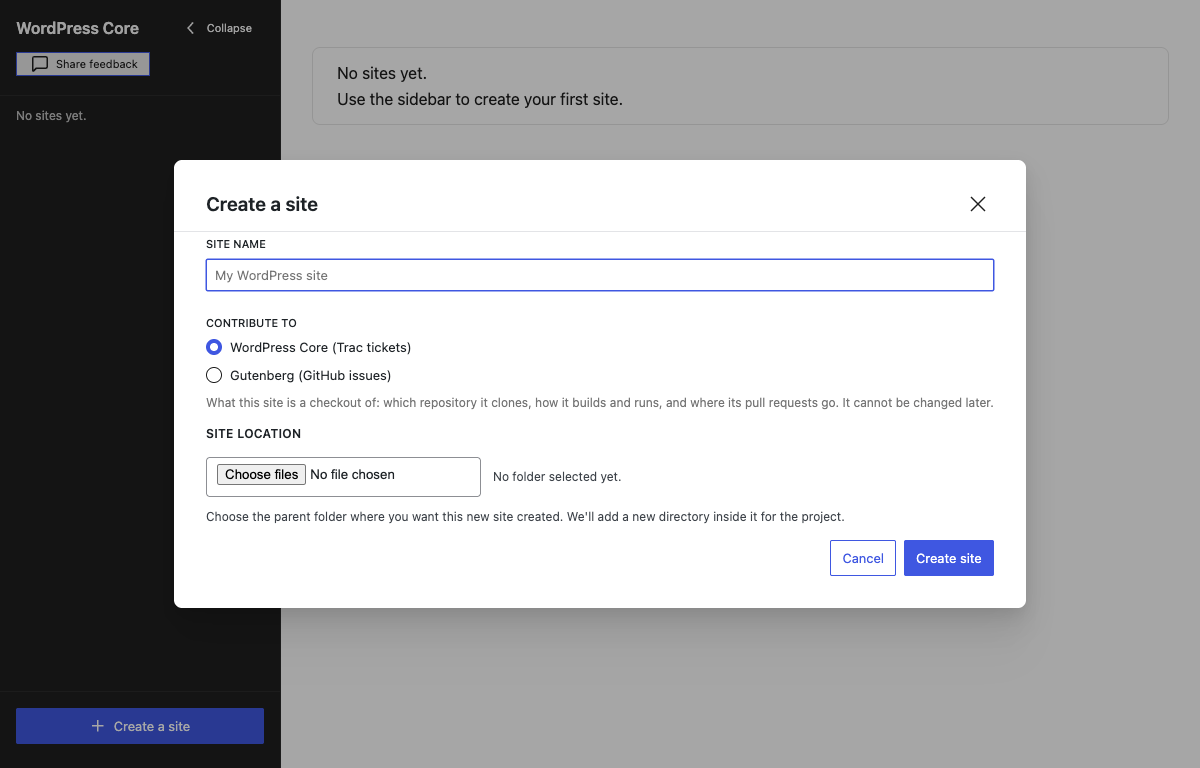
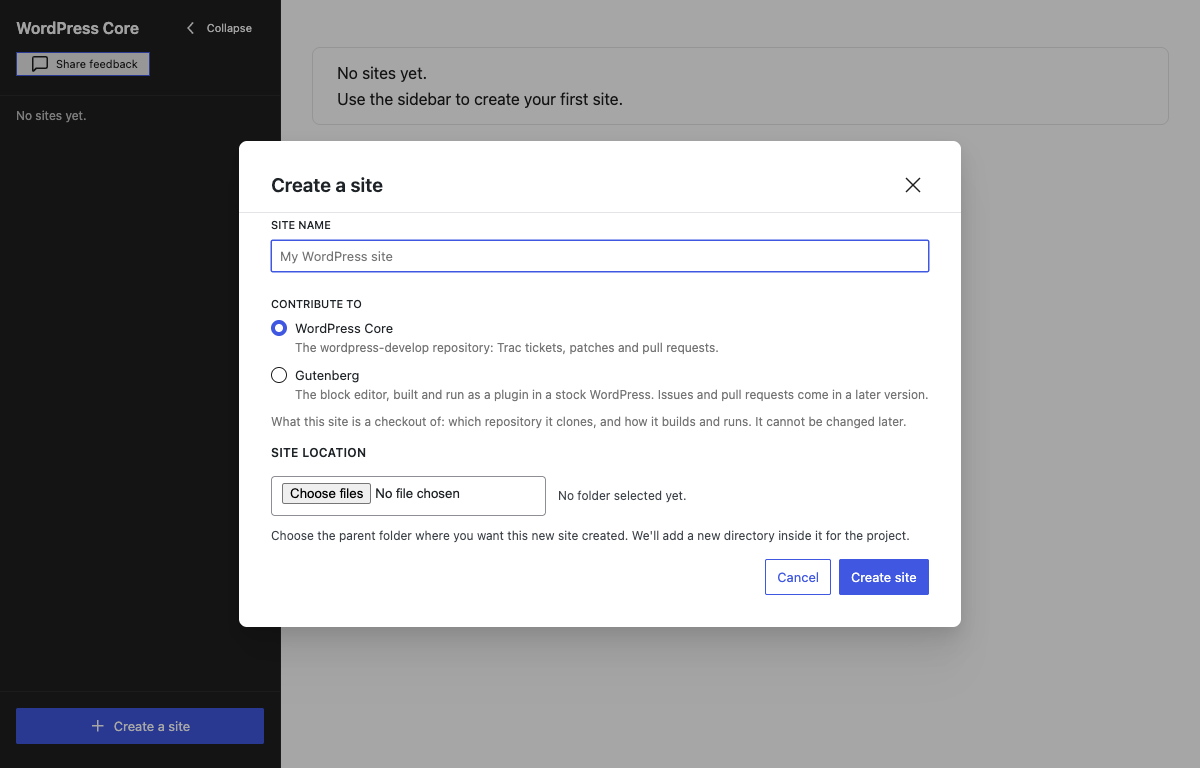
[Fix] Say only what a Gutenberg site can do, and refuse the pull request it cannot open yet (#251)
From the pre-PR review. The choice's help line and the docs promised "where its pull requests go", but the pull-request flow forks and targets wordpress-develop for every site; until it reads the type, `github:open-pr` refuses a site that is not Core with a sentence that points at the patch file, and the copy says only what is wired. Each choice carries its own line now (the registry's `description`, read nowhere before), attached to the radio rather than to the group. The docs no longer claim an empty name yields a default folder, which the dialog refuses; the pages that still described every site as wordpress-develop say the project's repository; the checklist's clone line does too. The legacy-site journey pins the two radios and the Core default at pull-request cost. The real-setup spec's comment on the mutated name field no longer implies the app rewrote it.

Changed region(s): [[0.1233, 0.1562, 0.8633, 0.8438]]

diff --git a/tests/e2e/real-setup/create-site.spec.js b/tests/e2e/real-setup/create-site.spec.js
@@ -2,17 +2,16 @@ const fs = require( 'node:fs' );
 const os = require( 'node:os' );
 const path = require( 'node:path' );
 const { finished } = require( 'node:stream/promises' );
-const { test, expect } = require( '../helpers/app.cjs' );
-
 const { execFileSync } = require( 'node:child_process' );
+const { test, expect } = require( '../helpers/app.cjs' );
 
 // One real setup per contribution target (#251). The steps are the same; what
 // differs is the choice in the dialog, what the status reports, and what the
 // served WordPress must show: Core serves its own build/, Gutenberg is a plugin
 // inside a stock WordPress.
 const TARGETS = [
-	{ choice: 'WordPress Core (Trac tickets)', projectType: 'core', servedAsPlugin: false },
-	{ choice: 'Gutenberg (GitHub issues)', projectType: 'gutenberg', servedAsPlugin: true },
+	{ choice: 'WordPress Core', projectType: 'core', servedAsPlugin: false },
+	{ choice: 'Gutenberg', projectType: 'gutenberg', servedAsPlugin: true },
 ];
 
 // Whether any process of the Gutenberg watcher tree (tsc --watch, wp-build
@@ -32,112 +31,115 @@ function watcherProcessesAlive( sitePath ) {
 }
 
 for ( const target of TARGETS ) {
-test( `a new ${ target.projectType } site downloads, installs, builds and serves WordPress`, async ( { session, request }, testInfo ) => {
-	test.skip( process.env.TOOLKIT_REAL_SETUP !== '1', 'Set TOOLKIT_REAL_SETUP=1 to allow a real network install.' );
-	const parent = session.track( fs.mkdtempSync( path.join( os.tmpdir(), 'wpct-real-setup-' ) ) );
-	const sitePath = path.join( parent, 'real-setup' );
-	const { app, page } = await session.start();
-	const logPath = testInfo.outputPath( 'app.log' );
-	fs.mkdirSync( path.dirname( logPath ), { recursive: true } );
-	const log = fs.createWriteStream( logPath );
-	const proc = app.process();
-	const onOutput = ( chunk ) => log.write( chunk );
-	proc.stdout.on( 'data', onOutput );
-	proc.stderr.on( 'data', onOutput );
+	test( `a new ${ target.projectType } site downloads, installs, builds and serves WordPress`, async ( { session, request }, testInfo ) => {
+		test.skip( process.env.TOOLKIT_REAL_SETUP !== '1', 'Set TOOLKIT_REAL_SETUP=1 to allow a real network install.' );
+		const parent = session.track( fs.mkdtempSync( path.join( os.tmpdir(), 'wpct-real-setup-' ) ) );
+		const sitePath = path.join( parent, 'real-setup' );
+		const { app, page } = await session.start();
+		const logPath = testInfo.outputPath( 'app.log' );
+		fs.mkdirSync( path.dirname( logPath ), { recursive: true } );
+		const log = fs.createWriteStream( logPath );
+		const proc = app.process();
+		const onOutput = ( chunk ) => log.write( chunk );
+		proc.stdout.on( 'data', onOutput );
+		proc.stderr.on( 'data', onOutput );
 
-	try {
-		await test.step( 'Create a site in an isolated temporary directory', async () => {
-			await session.answerFileDialog( [ parent ] );
-			await page.getByRole( 'button', { name: 'Create a site', exact: true } ).click();
-			const modal = page.getByRole( 'dialog', { name: 'Create a site' } );
-			const choice = modal.getByRole( 'radio', { name: target.choice, exact: true } );
-			await choice.click();
-			await expect( choice ).toBeChecked();
-			// Filled after the choice, and read back until it is right. In the
-			// first seconds of a freshly started app the value Playwright filled
-			// came back with letters added or dropped ("real-setupes",
-			// "real-setu"), and the site then landed in a folder this test was
-			// not watching. Not reproduced by hand or in a warmed-up app; a
-			// refill is what a person would do on seeing it.
-			const name = modal.getByLabel( 'Site name', { exact: true } );
-			await expect( async () => {
-				await name.fill( 'real-setup' );
-				await expect( name ).toHaveValue( 'real-setup', { timeout: 2_000 } );
-			} ).toPass( { timeout: 30_000 } );
-			await modal.getByLabel( 'Site location', { exact: true } ).press( 'Enter' );
-			await modal.getByRole( 'button', { name: 'Create site', exact: true } ).click();
-		} );
-
-		await test.step( 'Wait for the real clone, npm install and full build', async () => {
-			// INVARIANT: the app completes the automatic chain without retry clicks.
-			// WordPress mirrors the same success message in its live region.
-			await expect( page.getByText( 'This site is ready to work on', { exact: true } ).first() ).toBeVisible( {
-				timeout: 40 * 60_000,
+		try {
+			await test.step( 'Create a site in an isolated temporary directory', async () => {
+				await session.answerFileDialog( [ parent ] );
+				await page.getByRole( 'button', { name: 'Create a site', exact: true } ).click();
+				const modal = page.getByRole( 'dialog', { name: 'Create a site' } );
+				const choice = modal.getByRole( 'radio', { name: target.choice, exact: true } );
+				await choice.click();
+				await expect( choice ).toBeChecked();
+				// Filled after the choice, and read back until it is right. In the
+				// first seconds of a freshly started app the value Playwright filled
+				// came back with letters added or dropped ("real-setupes",
+				// "real-setu"), and the site then landed in a folder this test was
+				// not watching. Not reproduced by hand or in a warmed-up app, and a
+				// review found nothing in the renderer that writes into a focused
+				// field; the shapes look like stray keystrokes reaching the focused
+				// window, or fill() racing the first status poll's re-render. A
+				// refill is what a person would do on seeing it.
+				const name = modal.getByLabel( 'Site name', { exact: true } );
+				await expect( async () => {
+					await name.fill( 'real-setup' );
+					await expect( name ).toHaveValue( 'real-setup', { timeout: 2_000 } );
+				} ).toPass( { timeout: 30_000 } );
+				await modal.getByLabel( 'Site location', { exact: true } ).press( 'Enter' );
+				await modal.getByRole( 'button', { name: 'Create site', exact: true } ).click();
 			} );
-			const status = await page.evaluate( ( dir ) => window.api.getSiteStatus( dir ), sitePath );
-			expect( status.hasNodeModules ).toBe( true );
-			expect( status.hasBuilt ).toBe( true );
-			expect( status.projectType ).toBe( target.projectType );
-			await testInfo.attach( 'site-status.json', {
-				body: JSON.stringify( status, null, 2 ), contentType: 'application/json',
-			} );
-		} );
 
-		await test.step( 'Start the dev server and verify WordPress over HTTP', async () => {
-			await page.getByRole( 'button', { name: 'Start dev server and finish the wizard', exact: true } ).click();
-			const adminLink = page.getByRole( 'link', { name: 'wp-admin', exact: true } );
-			await expect( adminLink ).toBeVisible( { timeout: 3 * 60_000 } );
-			const adminUrl = new URL( await adminLink.getAttribute( 'href' ) );
-			// INVARIANT: probe only the local server this app just started.
-			expect( adminUrl.protocol ).toBe( 'http:' );
-			expect( [ '127.0.0.1', 'localhost' ] ).toContain( adminUrl.hostname );
-			await expect( async () => {
-				const response = await request.get( new URL( '/wp-login.php', adminUrl ).href, { timeout: 15_000 } );
-				expect( response.status() ).toBe( 200 );
-				const html = await response.text();
-				// INVARIANT: PHP serves the WordPress login form, not just an open port.
-				expect( html ).toContain( 'id="loginform"' );
-				expect( html ).toContain( 'name="log"' );
-			} ).toPass( { timeout: 60_000, intervals: [ 2_000, 5_000 ] } );
-			if ( target.servedAsPlugin ) {
-				// INVARIANT: the served WordPress runs the checkout as its active
-				// Gutenberg plugin, and cannot delete it. Read off the Plugins
-				// screen after logging in with the credentials every site uses;
-				// the request context keeps the cookies.
-				const login = await request.post( new URL( '/wp-login.php', adminUrl ).href, {
-					form: { log: 'admin', pwd: 'password', 'wp-submit': 'Log In', testcookie: '1', redirect_to: new URL( '/wp-admin/plugins.php', adminUrl ).href },
-					timeout: 15_000,
+			await test.step( 'Wait for the real clone, npm install and full build', async () => {
+				// INVARIANT: the app completes the automatic chain without retry clicks.
+				// WordPress mirrors the same success message in its live region.
+				await expect( page.getByText( 'This site is ready to work on', { exact: true } ).first() ).toBeVisible( {
+					timeout: 40 * 60_000,
 				} );
-				expect( login.status() ).toBe( 200 );
-				const plugins = await login.text();
-				const row = /data-slug="gutenberg"[\s\S]*?<\/tr>/.exec( plugins );
-				expect( row, 'the Plugins screen lists the mounted checkout' ).not.toBeNull();
-				expect( row[ 0 ] ).toContain( 'Deactivate' );
-				expect( plugins ).not.toMatch( />Delete</ );
-			}
-			await page.getByRole( 'button', { name: 'Stop build watch', exact: true } ).click();
-			await page.getByRole( 'button', { name: 'Stop dev server', exact: true } ).click();
-			await expect( page.getByRole( 'button', { name: 'Start dev server', exact: true } ) ).toBeVisible( { timeout: 60_000 } );
-		} );
+				const status = await page.evaluate( ( dir ) => window.api.getSiteStatus( dir ), sitePath );
+				expect( status.hasNodeModules ).toBe( true );
+				expect( status.hasBuilt ).toBe( true );
+				expect( status.projectType ).toBe( target.projectType );
+				await testInfo.attach( 'site-status.json', {
+					body: JSON.stringify( status, null, 2 ), contentType: 'application/json',
+				} );
+			} );
 
-		await test.step( 'Stopping the watch ends its whole process tree', async () => {
-			// INVARIANT: no watcher process survives Stop. Gutenberg's `npm run
-			// dev` is a tree (tsc, wp-build, an esbuild service) that outlives a
-			// signal to npm alone; kill-tree.js signals the group.
-			const alive = watcherProcessesAlive( sitePath );
-			if ( alive === null ) return;
-			await expect( async () => {
-				expect( watcherProcessesAlive( sitePath ) ).toBe( 0 );
-			} ).toPass( { timeout: 20_000, intervals: [ 1_000 ] } );
-		} );
-	} finally {
-		// The session fixture captures failure evidence, quits (killing child
-		// processes) and removes only its own profile and tracked temp directory.
-		proc.stdout.off( 'data', onOutput );
-		proc.stderr.off( 'data', onOutput );
-		log.end();
-		await finished( log );
-		await testInfo.attach( 'app.log', { path: logPath, contentType: 'text/plain' } );
-	}
-} );
+			await test.step( 'Start the dev server and verify WordPress over HTTP', async () => {
+				await page.getByRole( 'button', { name: 'Start dev server and finish the wizard', exact: true } ).click();
+				const adminLink = page.getByRole( 'link', { name: 'wp-admin', exact: true } );
+				await expect( adminLink ).toBeVisible( { timeout: 3 * 60_000 } );
+				const adminUrl = new URL( await adminLink.getAttribute( 'href' ) );
+				// INVARIANT: probe only the local server this app just started.
+				expect( adminUrl.protocol ).toBe( 'http:' );
+				expect( [ '127.0.0.1', 'localhost' ] ).toContain( adminUrl.hostname );
+				await expect( async () => {
+					const response = await request.get( new URL( '/wp-login.php', adminUrl ).href, { timeout: 15_000 } );
+					expect( response.status() ).toBe( 200 );
+					const html = await response.text();
+					// INVARIANT: PHP serves the WordPress login form, not just an open port.
+					expect( html ).toContain( 'id="loginform"' );
+					expect( html ).toContain( 'name="log"' );
+				} ).toPass( { timeout: 60_000, intervals: [ 2_000, 5_000 ] } );
+				if ( target.servedAsPlugin ) {
+					// INVARIANT: the served WordPress runs the checkout as its active
+					// Gutenberg plugin, and cannot delete it. Read off the Plugins
+					// screen after logging in with the credentials every site uses;
+					// the request context keeps the cookies.
+					const login = await request.post( new URL( '/wp-login.php', adminUrl ).href, {
+						form: { log: 'admin', pwd: 'password', 'wp-submit': 'Log In', testcookie: '1', redirect_to: new URL( '/wp-admin/plugins.php', adminUrl ).href },
+						timeout: 15_000,
+					} );
+					expect( login.status() ).toBe( 200 );
+					const plugins = await login.text();
+					const row = /data-slug="gutenberg"[\s\S]*?<\/tr>/.exec( plugins );
+					expect( row, 'the Plugins screen lists the mounted checkout' ).not.toBeNull();
+					expect( row[ 0 ] ).toContain( 'Deactivate' );
+					expect( plugins ).not.toMatch( />Delete</ );
+				}
+				await page.getByRole( 'button', { name: 'Stop build watch', exact: true } ).click();
+				await page.getByRole( 'button', { name: 'Stop dev server', exact: true } ).click();
+				await expect( page.getByRole( 'button', { name: 'Start dev server', exact: true } ) ).toBeVisible( { timeout: 60_000 } );
+			} );
+
+			await test.step( 'Stopping the watch ends its whole process tree', async () => {
+				// INVARIANT: no watcher process survives Stop. Gutenberg's `npm run
+				// dev` is a tree (tsc, wp-build, an esbuild service) that outlives a
+				// signal to npm alone; kill-tree.js signals the group.
+				const alive = watcherProcessesAlive( sitePath );
+				if ( alive === null ) return;
+				await expect( async () => {
+					expect( watcherProcessesAlive( sitePath ) ).toBe( 0 );
+				} ).toPass( { timeout: 20_000, intervals: [ 1_000 ] } );
+			} );
+		} finally {
+			// The session fixture captures failure evidence, quits (killing child
+			// processes) and removes only its own profile and tracked temp directory.
+			proc.stdout.off( 'data', onOutput );
+			proc.stderr.off( 'data', onOutput );
+			log.end();
+			await finished( log );
+			await testInfo.attach( 'app.log', { path: logPath, contentType: 'text/plain' } );
+		}
+	} );
 }

diff --git a/src/renderer/index.jsx b/src/renderer/index.jsx
@@ -125,6 +125,7 @@ const PR_FAILURE_MESSAGES = {
   'rate-limited': 'GitHub is rate-limiting this connection. It usually clears within the hour.',
   offline: 'No connection to GitHub.',
   'no-ticket': 'Link a Trac ticket to this site first — a pull request has to cite one.',
+  'unsupported-project': 'Opening a pull request from this site is not supported yet — save the patch file instead.',
   empty: 'There are no changes to open a pull request with.'
 };
 // Per-status wording for the update chain card (#94), following the issue's
@@ -157,7 +158,7 @@ const CREATE_SITE_LOCATION_HELP_ID = 'create-site-location-help';
 // What the create-site dialog offers under "Contribute to", read off the
 // registry so the copy and the order live in one place. Core is first, and
 // the default.
-const CREATE_SITE_TYPE_OPTIONS = Object.values(PROJECT_TYPES).map((t) => ({ label: t.wizardLabel, value: t.id }));
+const CREATE_SITE_TYPE_OPTIONS = Object.values(PROJECT_TYPES).map((t) => ({ label: t.wizardLabel, value: t.id, description: t.description }));
 // Why the ticket's PR list could not be read, worded for the contributor.
 const TICKET_PATCH_STATUS_MESSAGE = {
   'rate-limited': 'GitHub is rate-limiting this connection.',
@@ -1082,7 +1083,7 @@ function App() {
             />
             <RadioControl
               label="Contribute to"
-              help="What this site is a checkout of: which repository it clones, how it builds and runs, and where its pull requests go. It cannot be changed later."
+              help="What this site is a checkout of: which repository it clones, and how it builds and runs. It cannot be changed later."
               selected={createSiteType}
               options={CREATE_SITE_TYPE_OPTIONS}
               onChange={(value) => setCreateSiteType(value)}
@@ -4387,7 +4388,7 @@ function SiteRow({ sitePath, initialized, createdAt, label, onInitialized, onSit
       description: isPending
         // The clone is also the trigger for everything after it (#246), so the
         // step says what happens next rather than implying a click is coming.
-        ? 'Cloning the WordPress develop repository… install and build start on their own when it finishes.'
+        ? 'Cloning the repository… install and build start on their own when it finishes.'
         : 'Clone the WordPress develop repository.',
       ...stepState.download,
       running: isPending

diff --git a/src/main.js b/src/main.js
@@ -1111,6 +1111,14 @@ ipcMain.handle('github:open-pr', async (event, sitePath, options = {}) => {
     // the one this site is linked to.
     const s = await getStore();
     const meta = (s.get('siteMeta') || {})[sitePath] || {};
+    // The flow below forks and targets wordpress-develop, and cites a Trac
+    // ticket. Until it reads the site's type (#251), a site of another type
+    // is refused here rather than handed a pull request against the wrong
+    // repository; the patch file the card offers underneath still works.
+    const project = projectTypeForSite(meta);
+    if (project.id !== 'core') {
+        return { ok: false, reason: 'unsupported-project', error: `Opening a pull request from a ${project.label} site is not supported yet.`, stage: 'auth' };
+    }
     const ticketId = meta.tracTicket;
     if (!ticketId) {
         return { ok: false, reason: 'no-ticket', error: 'Link a Trac ticket to this site first.', stage: 'auth' };
@@ -2612,10 +2620,7 @@ ipcMain.handle('wordpress:setup', async (event, destDir, options = {}) => {
 
 	// The target decides what is cloned and what the site is called by default
 	// (#251). Normalised at this write boundary: an unknown id is stored as
-	// Core, not as whatever the renderer sent. Until the create-site dialog
-	// offers the choice, nothing sends a type and every site is Core; a
-	// Gutenberg site made over IPC today clones correctly and is then built,
-	// served and diffed as if it were wordpress-develop.
+	// Core, not as whatever the renderer sent.
 	const projectType = normalizeProjectType(options.projectType);
 	const project = getProjectType(projectType);
 	const requestedName = typeof options.siteName === 'string' ? options.siteName.trim() : '';

diff --git a/tests/e2e/journeys/legacy-site.spec.js b/tests/e2e/journeys/legacy-site.spec.js
@@ -33,7 +33,11 @@ test( 'a site the old engine made is read, refused on every write, and can still
 	// INVARIANT — the way out is one click away: the banner opens the create
 	// modal the sidebar button opens.
 	await page.getByRole( 'button', { name: 'Create site', exact: true } ).click();
-	await expect( page.getByRole( 'dialog', { name: 'Create a site' } ) ).toBeVisible();
+	const createDialog = page.getByRole( 'dialog', { name: 'Create a site' } );
+	await expect( createDialog ).toBeVisible();
+	// INVARIANT — the dialog offers both targets and defaults to Core (#251).
+	await expect( createDialog.getByRole( 'radio', { name: 'WordPress Core', exact: true } ) ).toBeChecked();
+	await expect( createDialog.getByRole( 'radio', { name: 'Gutenberg', exact: true } ) ).not.toBeChecked();
 	await page.keyboard.press( 'Escape' );
 	await expect( page.getByRole( 'dialog', { name: 'Create a site' } ) ).toHaveCount( 0 );
 

diff --git a/docs/guide/creating-a-site.md b/docs/guide/creating-a-site.md
@@ -12,10 +12,10 @@ When the app starts with no sites, the main area shows a short prompt to create 
 
 Click **Create a site** at the bottom of the sidebar. A dialog opens with three fields.
 
-![The Create a site dialog, with a Site name text field, a Contribute to choice between WordPress Core and Gutenberg, and a Site location folder picker](/screenshots/create-site-modal.png)
+![The Create a site dialog, with a Site name text field, a Contribute to choice between WordPress Core and Gutenberg with a line under each, and a Site location folder picker](/screenshots/create-site-modal.png)
 
-- **Site name** — the label shown in the sidebar. It also determines the folder name: spaces and characters that are not valid in file names become hyphens, so a site named `My WordPress site` lives in a folder called `My-WordPress-site`. Leave it empty and the folder is named after the project: `wordpress-develop-trunk` or `gutenberg-trunk`.
-- **Contribute to** — which project this site is a checkout of. **WordPress Core** clones `wordpress-develop` and works from [Trac tickets](./trac-tickets); **Gutenberg** clones the block editor's repository. The choice decides what the site clones, how it builds and runs, and where its changes go, and it cannot be changed afterwards: create another site for the other project.
+- **Site name** — the label shown in the sidebar. It also determines the folder name: spaces and characters that are not valid in file names become hyphens, so a site named `My WordPress site` lives in a folder called `My-WordPress-site`.
+- **Contribute to** — which project this site is a checkout of. **WordPress Core** clones `wordpress-develop` and works from [Trac tickets](./trac-tickets), patches and pull requests; **Gutenberg** clones the block editor's repository, builds it and runs it as a plugin in a stock WordPress. Linking a GitHub issue and opening a pull request from a Gutenberg site come in a later version: for now it is for building, running and trying pull requests by checkout. The choice decides what the site clones and how it builds and runs, and it cannot be changed afterwards: create another site for the other project.
 - **Site location** — the parent folder where the site will be created. The app adds a new directory inside it for the project; it does not clone into the folder you pick directly.
 
 Click **Create site** (or press Enter) to start. **Cancel** or Escape closes the dialog without creating anything.

diff --git a/docs/guide/managing-sites.md b/docs/guide/managing-sites.md
@@ -9,7 +9,7 @@ Everything about a site's identity and lifecycle lives in its header: the name, 
 - **Rename** — click the pencil icon next to the site title to give the site a different display name. This changes the label in the app only; the directory on disk keeps its name.
 - **Status badge** — **INITIALIZED** once the repository is cloned; **UNINITIALIZED** before that.
 - **Created date** — when the site was created.
-- **Trunk age** — how old the site's snapshot of `wordpress-develop` trunk is. When the snapshot gets stale, an amber dot appears next to the label; hover it to see the age in days. See [Staying up to date with trunk](./trunk-updates).
+- **Trunk age** — how old the site's snapshot of trunk is. When the snapshot gets stale, an amber dot appears next to the label; hover it to see the age in days. See [Staying up to date with trunk](./trunk-updates).
 - **Path** — the site's directory, with a copy button next to it. The **Open directory in** menu underneath opens it in your file manager or an editor; see [Editors](./editors).
 
 ## The More menu
@@ -18,7 +18,7 @@ The ☰ menu at the top right of the site view contains:
 
 - **Copy path** — puts the site's directory path on the clipboard.
 - **Show in Finder** (macOS) / **Show in Explorer** (Windows) — reveals the directory in your file manager.
-- **Update to latest trunk** — fetches the latest `wordpress-develop` trunk and rebuilds. Also reachable from the staleness notice; on an already-fresh site it just prints "Already up to date." See [Staying up to date with trunk](./trunk-updates).
+- **Update to latest trunk** — fetches the latest trunk of the site's repository and rebuilds. Also reachable from the staleness notice; on an already-fresh site it just prints "Already up to date." See [Staying up to date with trunk](./trunk-updates).
 - **Delete this site** — removes the site from the list **and deletes its directory from disk**. This cannot be undone. The app will only ever delete a directory it has on record as a site — never an arbitrary path. It takes every ticket's work in the site with it; to throw away one ticket and keep the rest, use **Delete this ticket's work** on the tickets card instead — see [Working on several tickets](./ticket-branches#deleting-a-ticket-s-work).
 
 **Delete** asks for confirmation first.

diff --git a/docs/guide/trunk-updates.md b/docs/guide/trunk-updates.md
@@ -1,6 +1,6 @@
 # Keeping a site up to date with trunk
 
-A site is a clone of `wordpress-develop` frozen at the moment it was created, so it starts drifting behind trunk immediately. You never have to create a new site to get newer code.
+A site is a clone of its project's repository frozen at the moment it was created, so it starts drifting behind trunk immediately. You never have to create a new site to get newer code.
 
 The header of each site shows which snapshot it currently holds — for example `trunk as of 5 Aug 2026`.
 
@@ -12,7 +12,7 @@ The header of each site shows which snapshot it currently holds — for example 
 
 This option is always there — on every site, at any time, no matter how old or new the snapshot is and whether or not the app has flagged it as stale. If nothing has moved, you simply get "Already up to date." in the terminal.
 
-The update fetches from the site's own `origin` remote. A site the app created points at `WordPress/wordpress-develop`; a site you added from an existing checkout of a fork keeps fetching from that fork. A checkout with no `origin` remote cannot be updated; the terminal says so and how to add one.
+The update fetches from the site's own `origin` remote. A site the app created points at `WordPress/wordpress-develop` or `WordPress/gutenberg`; a site you added from an existing checkout of a fork keeps fetching from that fork. A checkout with no `origin` remote cannot be updated; the terminal says so and how to add one.
 
 You no longer have to stop the dev server first. The update pauses the [build watch](./running-the-site#the-build-watch) for the rebuild and resumes it afterwards, and the PHP server keeps serving throughout.
 

diff --git a/docs/index.md b/docs/index.md
@@ -4,7 +4,7 @@ layout: home
 hero:
   name: WordPress Contributor Toolkit
   text: Contribute to WordPress core with zero prerequisites
-  tagline: A desktop app that clones wordpress-develop, builds it, runs it, and turns your changes into a patch or pull request — no Git, Node, npm, or Docker required.
+  tagline: A desktop app that clones wordpress-develop or Gutenberg, builds it, runs it, and turns your changes into a patch or pull request — no Git, Node, npm, or Docker required.
   actions:
     # Secondary on purpose: the brand-coloured action on this page is the
     # Download button injected after this list (see .vitepress/theme/Layout.vue).
@@ -14,7 +14,7 @@ hero:
 
 features:
   - title: A full core environment in one click
-    details: The app clones wordpress-develop, installs dependencies, builds, and starts a dev server — the whole toolchain ships inside the app as JavaScript and WASM.
+    details: The app clones wordpress-develop or Gutenberg, installs dependencies, builds, and starts a dev server — the whole toolchain ships inside the app as JavaScript and WASM.
   - title: Made for Contributor Days
     details: Create your first site at home a day or two before the event. On Contributor Day, update it to download the recent changes instead of the full repository and all its dependencies.
     link: /guide/trunk-updates

diff --git a/docs/guide/getting-started.md b/docs/guide/getting-started.md
@@ -39,7 +39,7 @@ The app is signed and notarized by Automattic, so macOS should open it without i
 
 ## Your first contribution, in seven steps
 
-1. Click **Create a site**, choose a destination folder for your site, and pick what to contribute to: **WordPress Core** (the default) or **Gutenberg**.
+1. Click **Create a site**, choose a destination folder for your site, and pick what to contribute to: **WordPress Core** (the default) or **Gutenberg**. The seven steps below are the Core path; a Gutenberg site stops at step 4 for now, since its issues and pull requests come in a later version.
 2. Wait. The app downloads the repository, then installs the dependencies and runs the first build on its own — go and get a coffee. See [The setup wizard](./setup-wizard).
 3. Click **Start dev server**.
 4. A browser window opens automatically. If not, open it by clicking the site URL — or the **wp-admin** link beside it, to go straight to the dashboard.

diff --git a/docs/guide/setup-wizard.md b/docs/guide/setup-wizard.md
@@ -8,7 +8,7 @@ After [creating a site](./creating-a-site), its view shows the **Initial setup c
 
 ### 1. Download WordPress development version
 
-The clone of the project's repository that started when you created the site. It runs on its own; while it is in progress the checklist reads "Cloning the WordPress develop repository… the next step unlocks when it finishes." and every later step stays locked.
+The clone of the project's repository that started when you created the site. It runs on its own; while it is in progress the checklist reads "Cloning the repository… the next step unlocks when it finishes." and every later step stays locked.
 
 ### 2. Install npm dependencies
 
